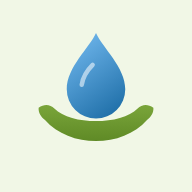
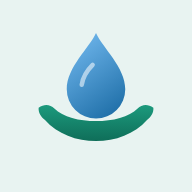
GC brand look on testing: GC Green and tints, Inter, black text; Tooth Mousse™
Following the GC Corporate Design Manual (Feb 2024):
- GC Green #158B70 with its 60/45/30/15/10% tints; buttons in the 15% tint;
  small green text in a darker GC Green (#0F6E59) to meet WCAG AA
- Inter (GC's recommended web font) replaces Figtree
- Body text 100% black; greys for lines; product images on light grey
- Home boxes in one GC Green family; red/amber/green kept for levels only
- Icon smile recoloured to GC Green
- Product names: Tooth Mousse™ and Tooth Mousse™ Plus throughout

Claude-Session: https://claude.ai/code/session_015eagS9vzLQs9tJA1syXvTj

Changed region(s): [[0.1875, 0.5312, 0.8125, 0.75]]

diff --git a/src/data/engine.js b/src/data/engine.js
@@ -104,7 +104,7 @@ export const FOLLOWUPS = [
   {
     id: "allergy", pri: () => 59, many: true,
     text: (m) => T(m, "Do you have either of these allergies?", "Does $ have either of these allergies?"),
-    why: "GC Tooth Mousse contains milk protein (casein), and GC Dry Mouth Gel contains hydroxybenzoates (parabens). We'll suggest something else if either applies.",
+    why: "GC Tooth Mousse™ contains milk protein (casein), and GC Dry Mouth Gel contains hydroxybenzoates (parabens). We'll suggest something else if either applies.",
     refs: [],
     options: [{ v: "milk", label: "Milk protein (casein)" }, { v: "hb", label: "Hydroxybenzoates (parabens)" }, { v: "none", label: "Neither" }],
     when: (m) => atRisk(m),
@@ -154,7 +154,7 @@ export const FOLLOWUPS = [
     options: [
       { v: "plain", label: "Fluoride toothpaste" }, { v: "hf", label: "High-fluoride toothpaste" },
       { v: "ff", label: "Fluoride-free toothpaste" }, { v: "rinse", label: "Fluoride mouthwash" },
-      { v: "tmp", label: "GC Tooth Mousse Plus" }, { v: "none", label: "None of these" },
+      { v: "tmp", label: "GC Tooth Mousse™ Plus" }, { v: "none", label: "None of these" },
     ],
     when: (m) => m.rtHN && (!m.rt || m.rt.stage !== "before"),
   },
@@ -351,7 +351,7 @@ const RULES = [
     if (src.includes("graze")) steps.push("Keep snacks and sweet drinks to mealtimes — every one starts a new acid attack.");
     if (src.includes("reflux")) steps.push("Ask your GP about treating the reflux. After heartburn, rinse with water and wait an hour to brush.");
     if (src.includes("vomit")) steps.push("After vomiting, rinse with water or a bicarbonate rinse, and wait at least 30 minutes before brushing.");
-    steps.push("After brushing, morning and night, smear GC Tooth Mousse or GC Tooth Mousse Plus (fortified with 900 ppm fluoride) over your teeth.");
+    steps.push("After brushing, morning and night, smear GC Tooth Mousse™ or GC Tooth Mousse™ Plus (fortified with 900 ppm fluoride) over your teeth.");
     if (lvl === "flag") steps.push("See your dentist and show them your pH results.");
     const because = [m.phPat.n === 1 ? "Your last pH test was acidic." : `Your saliva was acidic in ${m.phPat.acid} of your last ${m.phPat.n} tests.`];
     if (src.length && !src.includes("none")) because.push(`You mentioned ${list(src.filter((s) => s !== "none").map((s) => ({ drinks: "acidic drinks", graze: "snacking through the day", reflux: "reflux", vomit: "vomiting" })[s]))}.`);
@@ -365,7 +365,7 @@ const RULES = [
     const f = [].concat(answered(m, "rtFluoride") || []);
     if (f.includes("hf") || f.includes("tray")) return { id: "rtFluoride", pri: 30, title: "Keep up your daily fluoride, for life", body: "You're doing the most important thing. See your dentist every 3 to 6 months.", because: ["You've had radiotherapy to the head or neck."], refs: ["peterson2024"] };
     return { id: "rtFluoride", pri: 83, title: "Use high-strength fluoride every day, for life",
-      body: "Brush with a high-fluoride toothpaste (5,000 ppm) twice a day — spit, don't rinse. After brushing, morning and night, add GC Tooth Mousse Plus (fortified with 900 ppm fluoride) or GC Tooth Mousse.",
+      body: "Brush with a high-fluoride toothpaste (5,000 ppm) twice a day — spit, don't rinse. After brushing, morning and night, add GC Tooth Mousse™ Plus (fortified with 900 ppm fluoride) or GC Tooth Mousse™.",
       because: ["You've had radiotherapy to the head or neck. Teeth can decay very fast afterwards.",
         ...(f.includes("ff") ? ["Your toothpaste has no fluoride."] : f.includes("plain") ? ["You're using an ordinary-strength fluoride toothpaste."] : f.includes("none") ? ["You're not using any fluoride yet."] : [])],
       refs: ["peterson2024", "featherstone2021"], products: ["neutrafluor", "gc-tmp"] };
@@ -437,7 +437,7 @@ const RULES = [
     const because = [`Your dry mouth score is ${sipLevel(sipNow(m)).label.toLowerCase()}.`];
     if (night) because.push("Your mouth is driest at night.");
     if (a === "meh") return { id: "gel", pri: 50, title: "Get more from your saliva gel", body: "Use a pea-sized amount spread over the tongue, cheeks and gums with a clean finger — before meals, at bedtime and whenever you need it. Water alone wears off within minutes.", because: [...because, "You said gel didn't help much."], refs: ["nuchit2020"], products: ["gc-dmg"] };
-    return { id: "gel", pri: 62, title: night ? "Try GC Dry Mouth Gel at bedtime" : "Try GC Dry Mouth Gel", body: "Spread a pea-sized amount over your tongue, cheeks and gums with a clean finger, before meals and at bedtime. It lasts longer than water." + ([].concat(answered(m, "allergy") || []).includes("milk") ? "" : " You can mix it with GC Tooth Mousse or Tooth Mousse Plus before you put it on."), because, refs: ["nuchit2020", "mercadante2021"], products: ["gc-dmg"] };
+    return { id: "gel", pri: 62, title: night ? "Try GC Dry Mouth Gel at bedtime" : "Try GC Dry Mouth Gel", body: "Spread a pea-sized amount over your tongue, cheeks and gums with a clean finger, before meals and at bedtime. It lasts longer than water." + ([].concat(answered(m, "allergy") || []).includes("milk") ? "" : " You can mix it with GC Tooth Mousse™ or Tooth Mousse™ Plus before you put it on."), because, refs: ["nuchit2020", "mercadante2021"], products: ["gc-dmg"] };
   },
   // Night-time dryness.
   (m) => {
@@ -531,9 +531,9 @@ function safe(it, m) {
   const drop = (re) => body.split(/(?<=\.)\s+/).filter((x) => !re.test(x)).join(" ");
   if (milk && (products.some((p) => MILK.includes(p)) || /Tooth Mousse/.test(body + title))) {
     products = products.filter((p) => !MILK.includes(p));
-    body = drop(/Tooth Mousse/); title = title.replace(/GC Tooth Mousse( Plus)?/, "extra fluoride");
-    if (/Tooth Mousse/.test(it.title) || !body) body = `${body} Tooth Mousse contains milk protein, so ask your dentist about fluoride varnish or a fluoride gel instead.`.trim();
-    because = [...because, "You're allergic to milk protein, so Tooth Mousse is left out."];
+    body = drop(/Tooth Mousse/); title = title.replace(/GC Tooth Mousse™?( Plus)?/, "extra fluoride");
+    if (/Tooth Mousse/.test(it.title) || !body) body = `${body} Tooth Mousse™ contains milk protein, so ask your dentist about fluoride varnish or a fluoride gel instead.`.trim();
+    because = [...because, "You're allergic to milk protein, so Tooth Mousse™ is left out."];
   }
   if (hb && (products.includes("gc-dmg") || /Dry Mouth Gel/.test(body + title))) {
     products = products.filter((p) => !HB.includes(p));

diff --git a/src/data/risk.js b/src/data/risk.js
@@ -361,7 +361,7 @@ export function riskAdvice(result, answers = {}) {
   if (medPts >= 8)
     out.push({ id: "meds", title: "Ask for a medicine review", body: "Your pharmacist or GP may be able to change the dose, timing or type of a medicine that dries the mouth. Never stop a medicine without asking first.", refs: ["wolff2017"] });
   if (result.band.lo >= 10)
-    out.push({ id: "teeth", title: "Protect your teeth", body: "Saliva protects teeth from decay. Use a fluoride toothpaste twice a day, spit and don't rinse, and ask your dentist whether you need a high-fluoride toothpaste. After brushing, GC Tooth Mousse adds calcium and phosphate. GC Tooth Mousse Plus provides additional protection, fortified with 900 ppm fluoride.", refs: ["agarwal2022"], products: ["gc-tm", "gc-tmp"] });
+    out.push({ id: "teeth", title: "Protect your teeth", body: "Saliva protects teeth from decay. Use a fluoride toothpaste twice a day, spit and don't rinse, and ask your dentist whether you need a high-fluoride toothpaste. After brushing, GC Tooth Mousse™ adds calcium and phosphate. GC Tooth Mousse™ Plus provides additional protection, fortified with 900 ppm fluoride.", refs: ["agarwal2022"], products: ["gc-tm", "gc-tmp"] });
   if (result.band.lo >= 25 || result.major)
     out.push({ id: "moist", title: "Keep your mouth moist", body: "Sip water often, and use a saliva gel such as GC Dry Mouth Gel before meals and at bedtime. Sugar-free gum can help your own saliva flow.", refs: ["mercadante2021", "nuchit2020"], products: ["gc-dmg"] });
   if (has("breathing", "cpap"))
@@ -375,7 +375,7 @@ export function riskAdvice(result, answers = {}) {
   if (has("conditions", "pregnant") || has("conditions", "pregnantSick"))
     out.push({ id: "pregnant", title: "Looking after your mouth in pregnancy", body: "Tell your dentist you're pregnant — check-ups and most treatment are safe, and the second trimester is often the most comfortable time. Gums often swell and bleed more in pregnancy: keep brushing gently twice a day and clean between your teeth. Keep sweet snacks to mealtimes.", refs: ["adaPregnancy", "pbbTeeth"] });
   if (result.factors.some((f) => f.acid) || has("medTypes", "glp1"))
-    out.push({ id: "acid", title: has("conditions", "pregnantSick") ? "After morning sickness, don't brush straight away" : "After vomiting or reflux, don't brush straight away", body: "Rinse with water, then wait about an hour before brushing — acid softens enamel and brushing straight away wears it. In the meantime, smear on fluoride toothpaste, GC Tooth Mousse or GC Tooth Mousse Plus (fortified with 900 ppm fluoride) with a clean finger, or chew sugar-free gum.", refs: ["adaPregnancy", "pbbTeeth"], products: ["gc-tm", "gc-tmp"] });
+    out.push({ id: "acid", title: has("conditions", "pregnantSick") ? "After morning sickness, don't brush straight away" : "After vomiting or reflux, don't brush straight away", body: "Rinse with water, then wait about an hour before brushing — acid softens enamel and brushing straight away wears it. In the meantime, smear on fluoride toothpaste, GC Tooth Mousse™ or GC Tooth Mousse™ Plus (fortified with 900 ppm fluoride) with a clean finger, or chew sugar-free gum.", refs: ["adaPregnancy", "pbbTeeth"], products: ["gc-tm", "gc-tmp"] });
   if (has("medTypes", "glp1"))
     out.push({ id: "glp1", title: "On a GLP-1 medicine", body: "Nausea, reflux and simply drinking less are common on these medicines, and all three dry the mouth. Keep sipping water through the day and mention dry mouth to your prescriber.", refs: ["massarotto2026", "alzawawi2026"] });
   if (has("cancer", "immuno"))

diff --git a/src/data/decay.js b/src/data/decay.js
@@ -175,7 +175,7 @@ export const DECAY_QUESTIONS = [
     options: [
       { v: "hf", label: "High-fluoride toothpaste (5,000 ppm)", hint: "e.g. NeutraFluor 5000, Clinpro 5000", as: "Using a high-fluoride toothpaste", pts: -4,
         why: "High-fluoride toothpaste gives the strongest everyday protection.", refs: ["featherstone2021", "chen2026"] },
-      { v: "tm", label: "GC Tooth Mousse or Tooth Mousse Plus", as: "Using GC Tooth Mousse or Tooth Mousse Plus", pts: -3,
+      { v: "tm", label: "GC Tooth Mousse™ or Tooth Mousse™ Plus", as: "Using GC Tooth Mousse™ or Tooth Mousse™ Plus", pts: -3,
         why: "Calcium and phosphate (CPP-ACP) are recommended for people at higher risk of decay.", refs: ["featherstone2021", "agarwal2022"] },
       { v: "varnish", label: "Fluoride varnish from my dentist in the last 6 months", as: "Fluoride varnish in the last 6 months", pts: -3,
         why: "Professional fluoride varnish helps stop early decay.", refs: ["slayton2018", "featherstone2021"] },
@@ -299,17 +299,17 @@ export function decayPlan(result, answers = {}) {
       products: ["oranurse"], refs: ["walsh2019"] });
 
   // Everyone with natural teeth: fluoride and Tooth Mousse for daily prevention.
-  out.push({ id: "tmp", title: uses("tm") ? "Keep using Tooth Mousse Plus" : "Add GC Tooth Mousse Plus, morning and night",
+  out.push({ id: "tmp", title: uses("tm") ? "Keep using Tooth Mousse™ Plus" : "Add GC Tooth Mousse™ Plus, morning and night",
       body: lvl === "veryhigh"
         ? "After brushing in the morning and at night, smear a pea-sized amount over your teeth and don't rinse. With a very dry mouth, you can also use it after lunch."
         : has("mouth", "braces")
           ? "After brushing in the morning and at night, smear a pea-sized amount around your brackets and over your teeth. Don't rinse, eat or drink for 30 minutes."
-          : "After brushing in the morning and at night, smear a pea-sized amount over your teeth. Don't rinse, eat or drink for 30 minutes. Tooth Mousse adds calcium and phosphate; Tooth Mousse Plus provides additional protection, fortified with 900 ppm fluoride.",
+          : "After brushing in the morning and at night, smear a pea-sized amount over your teeth. Don't rinse, eat or drink for 30 minutes. Tooth Mousse™ adds calcium and phosphate; Tooth Mousse™ Plus provides additional protection, fortified with 900 ppm fluoride.",
       products: ["gc-tmp", "gc-tm"], refs: ["featherstone2021", "agarwal2022"] });
 
   if (hi)
-    out.push({ id: "tm", title: "During the day: GC Tooth Mousse",
-      body: "If you're using a high-fluoride toothpaste, GC Tooth Mousse — calcium and phosphate without added fluoride — can go on during the day for extra protection. Your dentist can tell you which suits you.",
+    out.push({ id: "tm", title: "During the day: GC Tooth Mousse™",
+      body: "If you're using a high-fluoride toothpaste, GC Tooth Mousse™ — calcium and phosphate without added fluoride — can go on during the day for extra protection. Your dentist can tell you which suits you.",
       products: ["gc-tm"], refs: ["featherstone2021"] });
 
   if (result.factors.some((f) => f.q === "sugar"))

diff --git a/src/index.css b/src/index.css
@@ -1358,3 +1358,43 @@ details.srcs .sources { margin-top: 4px; }
 .panel.about summary svg { transition: transform .2s; color: var(--ink3); }
 .panel.about[open] summary svg { transform: rotate(90deg); }
 .panel.about[open] summary { margin-bottom: 10px; }
+
+/* ─── GC brand (GC Corporate Design Manual, Feb 2024) ─────────────────────
+   GC Green #158B70 and its tints (60/45/30/15/10%), white space, black text,
+   greys for lines. Inter is GC's recommended web font. GC Green is used at full
+   strength for large type and the brand; small green text uses a darker shade
+   of it (#0F6E59) so it meets WCAG AA contrast (GC Green is 4.2:1 on white). */
+:root {
+  --gc: #158b70; --gc60: #73b9a9; --gc45: #96cbbf; --gc30: #b9dcd4; --gc15: #dceeea; --gc10: #e8f3f1;
+  --accent: #0f6e59; --accent2: #0b5948; --accent-ink: #ffffff;
+  --tint: var(--gc10); --soft: #f2f2f2;
+  --ink: #000000; --ink2: #4d4d4d; --ink3: #666666; --line: #e6e6e6; --dim: #cccccc;
+  --good: #0f6e59; --good-bg: var(--gc10);
+  --btn-bg: var(--gc15); --btn-hover: var(--gc30); --btn-ink: #0b5948; --btn-line: var(--gc30);
+  --font: "Inter Variable", "Inter", -apple-system, BlinkMacSystemFont, "Segoe UI", Roboto, sans-serif;
+  --display: "Inter Variable", "Inter", -apple-system, BlinkMacSystemFont, "Segoe UI", sans-serif;
+}
+[data-theme="dark"] {
+  --gc: #73b9a9; --gc60: #4d9d8a; --gc45: #2f7e6c; --gc30: #1f5a4d; --gc15: #143d34; --gc10: #10302a;
+  --accent: #73b9a9; --accent2: #96cbbf; --accent-ink: #0b2a23;
+  --tint: var(--gc10); --soft: #1e2228;
+  --ink: #f2f2f2; --ink2: #b8bcc2; --ink3: #949aa2; --line: #2b2f35; --dim: #3a3f46;
+  --good: #73b9a9; --good-bg: var(--gc10);
+  --btn-bg: var(--gc15); --btn-hover: var(--gc30); --btn-ink: #b9dcd4; --btn-line: var(--gc30);
+}
+/* The brand name in GC Green; headings stay black for readability, as the manual allows. */
+.brand, .brand-head .brand { color: var(--gc); }
+.test-badge { background: var(--gc10); color: var(--accent); }
+/* Result boxes: one family in GC Green tints instead of five pastel colours.
+   Red, amber and green stay only where they mean Low, Moderate or High. */
+.tile.risk, .tile.decay, .tile.sip, .tile.jaw, .tile.advice, .tile.tracker { --c: var(--accent); }
+.tile.ph { --c: #4d4d4d; }
+[data-theme="dark"] .tile.ph { --c: #b8bcc2; }
+.boxes .tile, .boxes .tile.advice { background: var(--card); border: 1.5px solid var(--gc30); }
+.boxes .tile.due { border-color: var(--gc60); }
+.boxes .tile:hover { border-color: var(--gc60); }
+.tile-icon { background: var(--gc10); color: var(--accent); }
+.tile.ph .tile-icon { background: #f2f2f2; }
+[data-theme="dark"] .tile.ph .tile-icon { background: var(--soft); }
+/* Product images sit on the manual's light-grey panel (10% black). */
+.pimg, .prod-img, .product-image { background: #f2f2f2; }

diff --git a/src/data/care.js b/src/data/care.js
@@ -77,7 +77,7 @@ export const CARE_TOPICS = [
     forYou: (c) => !!c.cancer && tx(c, "rt_hn"),
     steps: [
       "Use fluoride every day for life: a high-fluoride toothpaste, or fluoride trays if your dentist made you some.",
-      "Add GC Tooth Mousse Plus after brushing, morning and night. A dry mouth can decay very fast.",
+      "Add GC Tooth Mousse™ Plus after brushing, morning and night. A dry mouth can decay very fast.",
       "See your dentist every 3 to 6 months.",
       "Tell every dentist you've had radiotherapy before any tooth is taken out. The jaw can heal poorly there. Show them your dental alert card.",
       "Check how wide you can open once a month. If it's getting harder, tell your team early.",
@@ -146,9 +146,9 @@ export const CARE_TOPICS = [
     forYou: (c) => c.ph === "flag" || c.ph === "watch" || (c.sip ?? 0) >= 8 || c.risk === "high" || c.risk === "veryhigh" || ["moderate", "high", "veryhigh"].includes(c.decay),
     steps: [
       "Ask your dentist if you need a high-fluoride toothpaste (5,000 ppm).",
-      "After brushing in the morning and at night, smear a pea-sized amount of GC Tooth Mousse Plus over your teeth. Don't rinse, eat or drink for 30 minutes. It provides additional protection, fortified with 900 ppm fluoride.",
-      "GC Tooth Mousse has calcium and phosphate without fluoride. It suits daytime use, or children.",
-      "Not if you're allergic to milk protein. Tooth Mousse Plus isn't for children 6 or under.",
+      "After brushing in the morning and at night, smear a pea-sized amount of GC Tooth Mousse™ Plus over your teeth. Don't rinse, eat or drink for 30 minutes. It provides additional protection, fortified with 900 ppm fluoride.",
+      "GC Tooth Mousse™ has calcium and phosphate without fluoride. It suits daytime use, or children.",
+      "Not if you're allergic to milk protein. Tooth Mousse™ Plus isn't for children 6 or under.",
       "Ask for fluoride varnish at your check-ups.",
     ],
     products: ["gc-tmp", "gc-tm", "neutrafluor"], refs: ["sim2019", "agarwal2022"],
@@ -173,7 +173,7 @@ export const CARE_TOPICS = [
     steps: [
       "Rinse straight away with water, or with 1 teaspoon of bicarbonate of soda in a cup of water to neutralise the acid.",
       "Wait at least 30 minutes, ideally an hour, before brushing. Brushing softened enamel wears it away.",
-      "Meanwhile, smear fluoride toothpaste, GC Tooth Mousse or GC Tooth Mousse Plus (fortified with 900 ppm fluoride) on your teeth with a clean finger.",
+      "Meanwhile, smear fluoride toothpaste, GC Tooth Mousse™ or GC Tooth Mousse™ Plus (fortified with 900 ppm fluoride) on your teeth with a clean finger.",
       "Chew sugar-free gum to wash the acid away.",
       "If it keeps happening, see your GP, and tell your dentist.",
     ],

diff --git a/tests/engine.test.js b/tests/engine.test.js
@@ -133,7 +133,7 @@ test("allergies take Tooth Mousse and the gel out of the plan", () => {
   const plan = buildPlan(model(p, e));
   for (const it of plan) {
     assert.ok(!it.products.some((x) => ["gc-tmp", "gc-tm", "gc-dmg"].includes(x)), it.id);
-    assert.ok(!/Tooth Mousse Plus over|GC Dry Mouth Gel/.test(it.title + it.body.replace(/Tooth Mousse contains milk protein/, "")), it.id);
+    assert.ok(!/Tooth Mousse™ Plus over|GC Dry Mouth Gel/.test(it.title + it.body.replace(/Tooth Mousse contains milk protein/, "")), it.id);
   }
 });
 
@@ -160,7 +160,7 @@ test("the sugar question from the decay check isn't asked again", () => {
 
 test("after radiotherapy: fluoride options, and the plan responds to fluoride-free toothpaste", () => {
   const q = FOLLOWUPS.find((x) => x.id === "rtFluoride");
-  assert.deepEqual(q.options.map((o) => o.label), ["Fluoride toothpaste", "High-fluoride toothpaste", "Fluoride-free toothpaste", "Fluoride mouthwash", "GC Tooth Mousse Plus", "None of these"]);
+  assert.deepEqual(q.options.map((o) => o.label), ["Fluoride toothpaste", "High-fluoride toothpaste", "Fluoride-free toothpaste", "Fluoride mouthwash", "GC Tooth Mousse™ Plus", "None of these"]);
   assert.ok(q.noSnooze);
   const p = { situation: ["cancer"], treatments: ["rt_hn"], rtStart: iso(NOW - 200 * D) };
   const it = buildPlan(model(answer(p, [], "rtFluoride", ["ff"]))).find((i) => i.id === "rtFluoride");
@@ -174,7 +174,7 @@ test("products already in use are praised, not recommended as new", () => {
   const e = [{ id: "u1", kind: "used", items: ["gc-tmp"], ts: NOW - D }, { id: "s1", kind: "sip", sip: 12, ts: NOW - D }];
   const plan = buildPlan(model(answer(p, e, "rtFluoride", ["plain", "tmp"]), e));
   const rt = plan.find((i) => i.id === "rtFluoride");
-  assert.match(rt.body, /already using GC Tooth Mousse Plus — keep going/);
+  assert.match(rt.body, /already using GC Tooth Mousse™ Plus — keep going/);
   const acid = [6.0, 5.8, 6.2].map((ph, i) => ({ id: `p${i}`, kind: "ph", ph, ts: NOW - (5 - i) * D }))
     .concat([{ id: "u2", kind: "used", items: ["gc-tmp", "gc-tm"], ts: NOW - D }]);
   const kept = buildPlan(model({}, acid)).filter((i) => i.kept);
@@ -248,7 +248,7 @@ test("everyone with teeth gets fluoride and Tooth Mousse, unless allergic to mil
 test("the gel tip about mixing with Tooth Mousse is left out for milk-protein allergy", () => {
   const e = [{ id: "s1", kind: "sip", ts: Date.now(), sip: 10 }];
   const gel = (p) => buildPlan(buildModel({ profile: p, entries: e })).find((i) => i.id === "gel");
-  assert.match(gel({}).body, /mix it with GC Tooth Mousse/);
+  assert.match(gel({}).body, /mix it with GC Tooth Mousse™/);
   assert.doesNotMatch(gel({ fu: { allergy: { v: ["milk"] } } }).body, /Tooth Mousse/);
 });
 

diff --git a/src/data/journey.js b/src/data/journey.js
@@ -112,7 +112,7 @@ function rtCard(p, now) {
   const base = { id: "rt", title: "Radiotherapy to the head or neck" };
   if (s.stage === "before") return { ...base, when: s.daysToGo ? `Starts in ${s.daysToGo} day${s.daysToGo === 1 ? "" : "s"}` : "Before you start", items: [
     { t: "See your dentist now. Any teeth that need to come out should come out before radiotherapy, ideally at least 2 weeks before, so the gum can heal.", refs: ["peterson2024"] },
-    { t: "Ask your dentist about a high-fluoride toothpaste or fluoride trays, and start GC Tooth Mousse Plus after brushing, morning and night.", refs: ["nciPdqHp", "featherstone2021"] },
+    { t: "Ask your dentist about a high-fluoride toothpaste or fluoride trays, and start GC Tooth Mousse™ Plus after brushing, morning and night.", refs: ["nciPdqHp", "featherstone2021"] },
     { t: "Do your dry mouth check and a pH test now. Having a starting point makes later changes easy to see." },
     { t: "Check how wide you can open your mouth (the finger test in Tools), so any stiffness later is spotted early.", refs: ["nciPdqHp"] },
   ], next: "Soreness usually begins around the second week of treatment." };
@@ -136,7 +136,7 @@ function rtCard(p, now) {
   ], next: "Dryness may slowly improve over months, but often doesn't fully go." };
   if (s.stage === "after") return { ...base, when: s.monthsAfter ? `About ${s.monthsAfter} month${s.monthsAfter === 1 ? "" : "s"} after` : "In the year after", items: [
     { t: "Dryness may improve slowly over months but often doesn't fully recover. Keep tracking it here." },
-    { t: "Use fluoride every day — high-fluoride toothpaste or trays — and GC Tooth Mousse Plus after brushing, morning and night. A dry mouth decays fast.", refs: ["nciPdqHp", "featherstone2021"] },
+    { t: "Use fluoride every day — high-fluoride toothpaste or trays — and GC Tooth Mousse™ Plus after brushing, morning and night. A dry mouth decays fast.", refs: ["nciPdqHp", "featherstone2021"] },
     { t: "Check how wide you can open once a month. If it's getting harder, ask about jaw exercises — they help once stiffness starts.", refs: ["shao2020"] },
     { t: "See your dentist every 3 to 6 months." },
   ], always: ORN };

diff --git a/src/screens/me.jsx b/src/screens/me.jsx
@@ -106,7 +106,7 @@ export function Me({ profile, setProfile, prefs, setPrefs, open, onErase }) {
 
       <details className="panel about">
         <summary><h2 className="panel-title">About Mouthkind</h2><Icon name="chev" size={18} /></summary>
-        <p><strong>Who made it.</strong> Dr Rakesh Jivan, a dentist with over 25 years in practice. He is Scientific Affairs Manager at GC Australasia, which makes GC Tooth Mousse, GC Tooth Mousse Plus, GC Dry Mouth Gel and GC Saliva-Check BUFFER. Those products are recommended where they fit, alongside other brands and non-product advice.</p>
+        <p><strong>Who made it.</strong> Dr Rakesh Jivan, a dentist with over 25 years in practice. He is Scientific Affairs Manager at GC Australasia, which makes GC Tooth Mousse™, GC Tooth Mousse™ Plus, GC Dry Mouth Gel and GC Saliva-Check BUFFER. Those products are recommended where they fit, alongside other brands and non-product advice.</p>
         <p><strong>How the checks work.</strong> The dry mouth score is the GC SIP-SCORE, which uses the five questions of the Summated Xerostomia Inventory, a validated measure of dry mouth. The dry mouth and tooth decay risk checks are screening checks: they add up known risk factors from published research and guidelines (including CAMBRA), weighted by clinical judgement, and are not yet validated against saliva tests or dental examinations. Even the best-validated decay risk tools are only moderately accurate, so your dentist's examination comes first.</p>
         <p><strong>Where the advice comes from.</strong> Guidelines and studies are listed under "Sources" on each piece of advice.</p>
         <p><strong>Your privacy.</strong> Everything stays on this device. Nothing is sent anywhere unless you choose to share or back it up.</p>

diff --git a/src/data/products.js b/src/data/products.js
@@ -22,12 +22,12 @@ export const PRODUCTS = [
       "Lubricates and moistens the mouth for up to 4 hours.",
       "Sugar-free.",
       "A range of flavours, including citrus flavours that help get saliva flowing.",
-      "Can be used together with GC Tooth Mousse or Tooth Mousse Plus.",
+      "Can be used together with GC Tooth Mousse™ or Tooth Mousse™ Plus.",
     ],
   },
   // Protect teeth
   {
-    id: "gc-tmp", gc: true, name: "GC Tooth Mousse Plus", job: "protect",
+    id: "gc-tmp", gc: true, name: "GC Tooth Mousse™ Plus", job: "protect",
     form: "Crème with CPP-ACP, fortified with 900 ppm fluoride", regions: { AU: "yes", NZ: "yes" },
     why: "Adds calcium and phosphate (CPP-ACP) plus fluoride, for additional protection in anyone over 6. With a dry mouth, saliva no longer supplies these, so teeth lose mineral faster.",
     use: "After brushing in the morning and at night, smear a pea-sized amount over the teeth. Don't rinse, eat or drink for 30 minutes.",
@@ -47,7 +47,7 @@ export const PRODUCTS = [
     ],
   },
   {
-    id: "gc-tm", gc: true, name: "GC Tooth Mousse", job: "protect",
+    id: "gc-tm", gc: true, name: "GC Tooth Mousse™", job: "protect",
     form: "Crème with CPP-ACP", regions: { AU: "yes", NZ: "yes" },
     why: "Calcium and phosphate (CPP-ACP) without added fluoride — for children 6 and under, people who'd rather avoid fluoride, and anyone likely to swallow it.",
     use: "Smear a pea-sized amount over the teeth, during the day or as your dentist directs. Don't rinse, eat or drink for 30 minutes.",

diff --git a/src/screens/extras.jsx b/src/screens/extras.jsx
@@ -61,7 +61,7 @@ export function SipFlow({ every, previous: prevAtOpen, onClose, onSave, followUp
         <p className="lede">{done.sip >= 11
           ? "That's a lot of dryness to live with. Show your scores to your dentist or doctor — there's more they can do, including checking your medicines and prescribing saliva stimulants."
           : done.sip >= 8 ? "Dryness is affecting you. Sip water often, use a saliva gel such as GC Dry Mouth Gel before meals and bed, and protect your teeth with fluoride."
-            : "Your mouth isn't very dry right now. Keep protecting your teeth every day with fluoride toothpaste and GC Tooth Mousse."}</p>
+            : "Your mouth isn't very dry right now. Keep protecting your teeth every day with fluoride toothpaste and GC Tooth Mousse™."}</p>
         {followUp}
         <Sources refs={["thomson2011", "mercadante2021"]} />
       </Sheet>

diff --git a/src/screens/home.jsx b/src/screens/home.jsx
@@ -163,7 +163,7 @@ export function Home({ profile, entries, prefs, careCtx, open, go, plan = [], as
 
       {every && !building && <div className="tk-foot home-foot"><span>Checking {every === 1 ? "every day" : every === 7 ? "once a week" : "every two weeks"}</span><span className="home-foot-acts"><button className="link-btn" onClick={() => open("freq")}>Change</button><button className="link-btn" onClick={() => open("remind")}><Icon name="bell" size={15} /> Remind me</button></span></div>}
 
-      <p className="foot-note">Made by Dr Rakesh Jivan, who works for GC Australasia, maker of GC Tooth Mousse and GC Dry Mouth Gel. General information, not a diagnosis.</p>
+      <p className="foot-note">Made by Dr Rakesh Jivan, who works for GC Australasia, maker of GC Tooth Mousse™ and GC Dry Mouth Gel. General information, not a diagnosis.</p>
     </div>
   );
 }

diff --git a/src/components/brandMark.jsx b/src/components/brandMark.jsx
@@ -4,7 +4,7 @@ export function BrandMark({ size = 28 }) {
     <svg viewBox="150 150 724 680" width={size} height={size} aria-hidden="true" className="brand-mark">
       <defs>
 <linearGradient id="bm-d" x1=".25" y1="0" x2=".75" y2="1"><stop offset="0" stopColor="#6fb6ec"/><stop offset="1" stopColor="#1f6fa8"/></linearGradient>
-<linearGradient id="bm-s" x1="0" y1="0" x2="0" y2="1"><stop offset="0" stopColor="#7aa53a"/><stop offset="1" stopColor="#5f8a26"/></linearGradient>
+<linearGradient id="bm-s" x1="0" y1="0" x2="0" y2="1"><stop offset="0" stopColor="#1c9a7d"/><stop offset="1" stopColor="#0f6e59"/></linearGradient>
 </defs>
 
 <path d="M512 176 C 478 254, 356 358, 356 476 A 156 156 0 0 0 668 476 C 668 358, 546 254, 512 176 Z" fill="url(#bm-d)"/>
